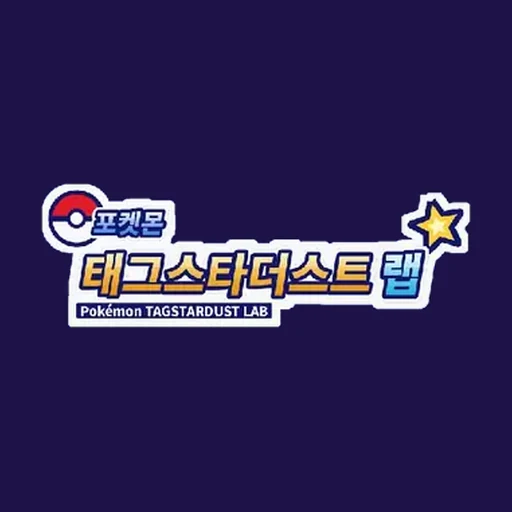
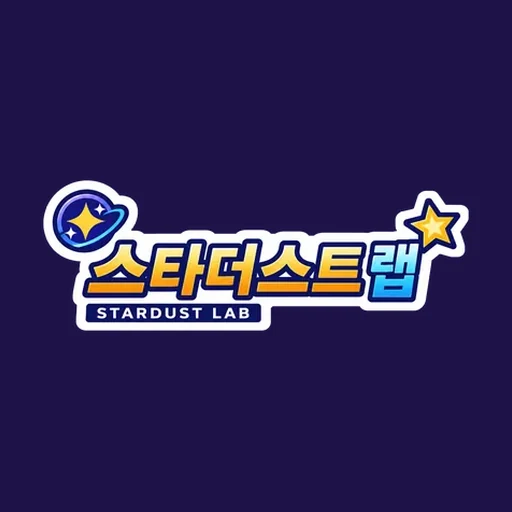
배포 v3.106.0 (stardust-lab)

Changed region(s): [[0.0625, 0.3438, 0.9375, 0.6562]]

diff --git a/stardust-lab/index.html b/stardust-lab/index.html
@@ -8,7 +8,7 @@
 <meta name="description" content="포켓몬 태그스타 스타더스트 1탄·2탄 ★6·★5 보스 공략. 보유 태그로 3턴 로테이션과 서포트 티켓을 추천합니다.">
 <meta name="theme-color" content="#120B2E">
 <meta name="color-scheme" content="dark">
-<meta name="version" content="3.105.0">
+<meta name="version" content="3.106.0">
 <meta http-equiv="Cache-Control" content="no-cache, must-revalidate">
 <meta http-equiv="Pragma" content="no-cache">
 
@@ -24,10 +24,10 @@
 <meta property="og:title" content="스타더스트 랩 · 태그스타 보스 공략">
 <meta property="og:description" content="보유 태그로 3턴 로테이션과 서포트 티켓을 추천합니다.">
 <meta property="og:locale" content="ko_KR">
[2 lines of base64/hex data omitted]
 <script async src="https://pagead2.googlesyndication.com/pagead/js/adsbygoogle.js?client=ca-pub-1384191135178594"
      crossorigin="anonymous"></script>
[2 lines of base64/hex data omitted]
 
 
 
@@ -42,10 +42,10 @@
 
 
 <link rel="manifest" href="manifest.json">
-<link rel="preload" as="font" type="font/woff2" href="asset/blackhansans.woff2?v=f316ab12affa" crossorigin>
+<link rel="preload" as="font" type="font/woff2" href="asset/blackhansans.woff2?v=932af8b7946e" crossorigin>
 <style>
 
-@font-face{font-family:'Black Han Sans';font-style:normal;font-weight:400;font-display:swap;src:url(asset/blackhansans.woff2?v=f316ab12affa) format('woff2')}
+@font-face{font-family:'Black Han Sans';font-style:normal;font-weight:400;font-display:swap;src:url(asset/blackhansans.woff2?v=932af8b7946e) format('woff2')}
 </style>
 <style>
 
@@ -338,7 +338,7 @@ body{padding-top:env(safe-area-inset-top,0px)}
 
 
 .dock::after{content:'';position:absolute;left:0;right:0;bottom:var(--dkgap);height:44px;pointer-events:none;
-  background:url(asset/grass.svg?v=f316ab12affa) repeat-x bottom/160px 44px}
+  background:url(asset/grass.svg?v=932af8b7946e) repeat-x bottom/160px 44px}
 
 
 
@@ -520,15 +520,11 @@ body::before{content:'';position:fixed;inset:0;pointer-events:none;z-index:99;
 
 
 header{padding:26px 0 6px;text-align:center}
-.hero{display:flex;align-items:center;justify-content:center;gap:15px;padding:20px 0 0;max-width:100%}
-.tcard{flex:none;width:64px;display:block;border-radius:13px;overflow:hidden;
-  box-shadow:0 8px 20px rgba(0,0,0,.55),0 0 0 1px rgba(255,255,255,.15),0 0 26px rgba(56,225,255,.16)}
-.tcard img{display:block;width:100%;height:auto}
-.hero-txt{min-width:0;flex:0 1 auto;text-align:left}
-.hero-txt .eyebrow{text-align:left}
-@media(max-width:390px){.hero{gap:11px}.tcard{width:54px}}
+
+
+.hero{display:flex;flex-direction:column;align-items:center;padding:20px 0 0;max-width:100%}
 .brand{position:relative;display:flex;justify-content:center;margin-bottom:10px}
-.brand img{width:min(300px,calc(100vw - 136px));height:auto;display:block;
+.brand img{width:min(320px,calc(100vw - 56px));height:auto;display:block;
   filter:drop-shadow(0 0 26px rgba(56,225,255,.30)) drop-shadow(0 3px 8px rgba(0,0,0,.5))}
 .brand::before{content:'';position:absolute;top:50%;left:50%;translate:-50% -50%;
   width:min(380px,calc(100vw - 110px));aspect-ratio:2.4/1;pointer-events:none;z-index:-1;
@@ -1967,12 +1963,12 @@ footer .fver{margin:15px 0 0}
 <div class="wrap">
 
 <header>
+  
+
+
   <div class="hero">
-    <div class="tcard" aria-hidden="true"><img src="asset/tagcard.webp?v=f316ab12affa" alt="" width="176" height="312"></div>
-    <div class="hero-txt">
-      <div class="brand" id="brand" role="button" tabindex="0" title="사용법 다시 보기"><img src="asset/logo.webp?v=f316ab12affa" alt="포켓몬 태그스타더스트 랩" width="320" height="108"></div>
-        <p class="eyebrow">스타더스트 1탄 · 2탄 &nbsp;<span class="s">★6 · ★5</span>&nbsp; 보스 공략</p>
-    </div>
+    <div class="brand" id="brand" role="button" tabindex="0" title="사용법 다시 보기"><img src="asset/logo.webp?v=932af8b7946e" alt="스타더스트 랩" width="400" height="144"></div>
+    <p class="eyebrow">스타더스트 1탄 · 2탄 &nbsp;<span class="s">★6 · ★5</span>&nbsp; 보스 공략</p>
   </div>
   <div class="sub" id="guide">
     <p><b>배틀로 겟!</b>에서 보스를 고르고, <b>컬렉션</b>에서 가진 태그만 켜두세요.
@@ -3473,18 +3469,18 @@ const TAGART=[
 
 
 
-const ASSETS=['blackhansans.woff2','logo.webp','tagcard.webp','grass.svg'];
+const ASSETS=['blackhansans.woff2','logo.webp','grass.svg'];   
 
 
 
-const MEDIAV='f316ab12affa';
+const MEDIAV='932af8b7946e';
 const TAGSET=new Set(TAGART);
 
 
 const tagArt=b=>TAGSET.has(b.s+'-'+b.r+'-'+b.n)?b.s+'-'+b.r+'-'+b.n:null;
 
-const VERSION='3.105.0';
-const BUILT='2026-09-12';
+const VERSION='3.106.0';
+const BUILT='2026-09-13';
 
 
 
@@ -3495,7 +3491,7 @@ const BUILT='2026-09-12';
 
 
 
-const WHATSNEW='카메라로 서브1 을 고른 뒤 다시 찾으면 서브1 은 그대로 두고 서브2 만 찾습니다.';
+const WHATSNEW='앱 로고가 새 그림으로 바뀌었습니다. 홈 화면 아이콘과 탭 아이콘도 함께 바뀌고, 로고 옆의 카드 그림은 없어졌습니다.';
 
 
 

diff --git a/stardust-lab/release.html b/stardust-lab/release.html
@@ -4,7 +4,7 @@
 <meta charset="utf-8">
 <meta name="viewport" content="width=device-width, initial-scale=1">
 <title>바뀐 것 · 스타더스트 랩</title>
-<meta name="description" content="스타더스트 랩(포켓몬 태그스타 ★6 보스 공략 도구)의 버전마다 바뀐 것 — v3.105.0 까지 70개 버전의 기록입니다.">
+<meta name="description" content="스타더스트 랩(포켓몬 태그스타 ★6 보스 공략 도구)의 버전마다 바뀐 것 — v3.106.0 까지 72개 버전의 기록입니다.">
 <meta name="theme-color" content="#120B2E">
 <meta name="color-scheme" content="dark">
 <link rel="canonical" href="https://shootdoy.github.io/stardust-lab/release.html">
@@ -47,7 +47,7 @@ ins.adsbygoogle[data-ad-status="unfilled"]{display:none!important}
 <header><a href="./">← 스타더스트 랩</a></header>
 
 <h1>바뀐 것</h1>
-<p class="lead">판마다 앱에서 무엇이 달라졌는지 적어 둡니다. 모두 <b>49개 판</b>이고
+<p class="lead">판마다 앱에서 무엇이 달라졌는지 적어 둡니다. 모두 <b>50개 판</b>이고
 맨 위가 가장 새 판입니다.</p>
 
 <div class="adbox">
@@ -57,6 +57,10 @@ ins.adsbygoogle[data-ad-status="unfilled"]{display:none!important}
   <script>(adsbygoogle = window.adsbygoogle || []).push({});</script>
 </div>
 
+<article class="rel" id="v3.106.0">
+  <h2>v3.106.0 <span class="date">2026-09-13</span></h2>
+  <ul><li>앱 로고가 새 그림으로 바뀌었습니다. 홈 화면 아이콘과 탭 아이콘도 함께 바뀌고, 로고 옆의 카드 그림은 없어졌습니다.</li><li>홈 화면에 이미 추가해 둔 앱은 아이콘이 그대로일 수 있습니다. 지우고 다시 추가하면 새 그림이 됩니다.</li></ul>
+</article>
 <article class="rel" id="v3.105.0">
   <h2>v3.105.0 <span class="date">2026-09-12</span></h2>
   <ul><li>카메라로 서브1 을 고른 뒤 다시 찾으면 서브1 은 그대로 두고 서브2 만 찾습니다.</li><li>지금까지는 다시 찾을 때 이미 고른 서브1 도 다시 추천되어, 답이 달라지면 고른 것이 흔들렸습니다. 고른 칸을 바꾸려면 상대 파티에서 그 칸을 다시 누르면 됩니다.</li></ul>
@@ -133,11 +137,7 @@ ins.adsbygoogle[data-ad-status="unfilled"]{display:none!important}
   <h2>v3.96.2 <span class="date">2026-09-07</span></h2>
   <ul><li>위쪽 시계와 탭 줄 사이가 넓게 비어 있던 것을 좁혔습니다.</li><li>아래쪽 dock 도 조금 더 내렸습니다. 잔디 밑 흙이 더 얇아집니다.</li></ul>
 </article>
-<article class="rel" id="v3.96.1">
-  <h2>v3.96.1 <span class="date">2026-09-07</span></h2>
-  <ul><li>위쪽 탭 줄이 반투명해서 뒤 글자가 비쳐 보이던 것을 고쳤습니다. 이제 판이 꽉 막습니다.</li><li>아래쪽 dock 을 조금 더 내렸습니다. 잔디 밑 흙이 얇아집니다.</li></ul>
-</article>
-<p class="cut">v3.96.0 이전 29개 판의 기록은 줄였습니다.</p>
+<p class="cut">v3.96.1 이전 30개 판의 기록은 줄였습니다.</p>
 
 <footer>포켓몬 태그스타 팬 도구 (비공식) · <a href="./">앱으로 돌아가기</a></footer>
 </div>
